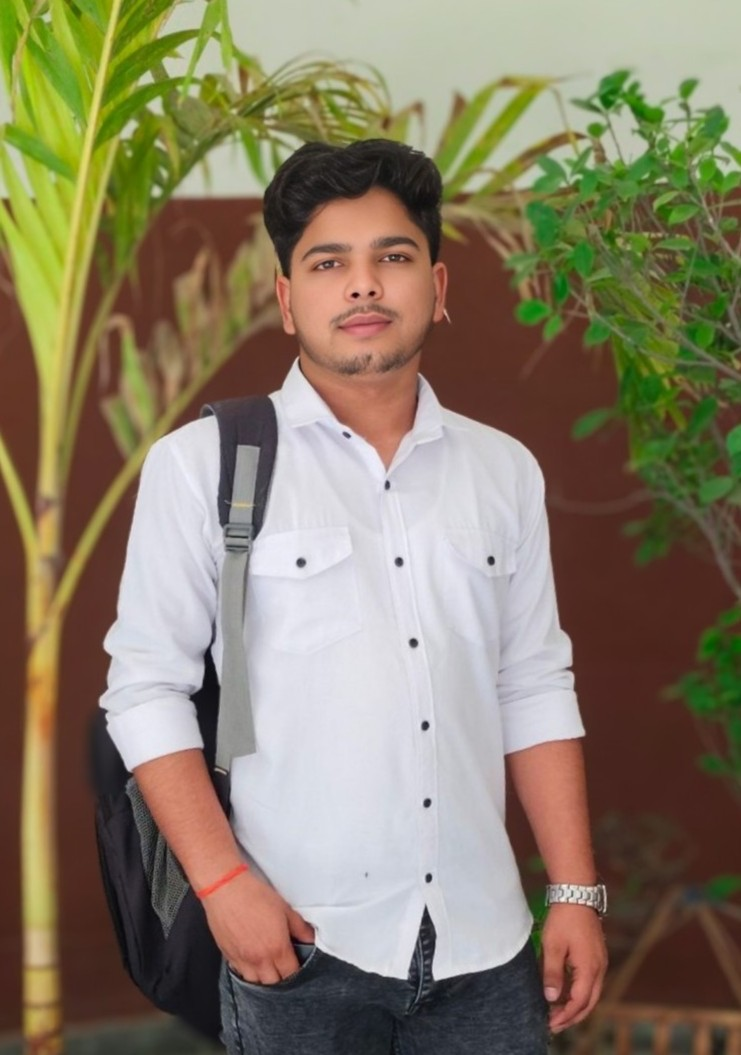
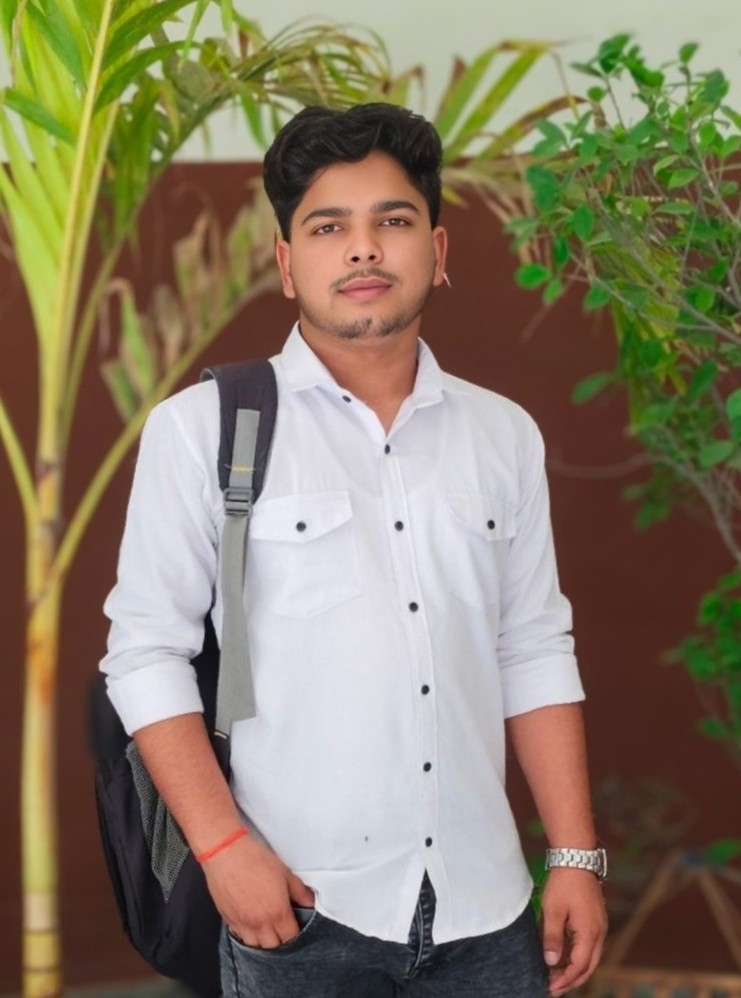
update

diff --git a/CSS/pages.css b/CSS/pages.css
@@ -118,9 +118,9 @@
 
 .about-photo {
     width: 400px;
-    height: auto;
+    height: 550px;
     display: block;
-    margin-left: 90px;
+    margin-left: 100px;
     border-radius: 30px;
     box-shadow: 0 4px 15px rgba(34, 197, 94, 0.4);
     transition: all 0.4s ease-in-out;
@@ -136,7 +136,7 @@
     flex: 0.7;
     background: var(--secondary-color);
     border-radius: 30px;
-    margin-right: 60px;
+    margin-right: 100px;
     padding: 20px;
     height: 550px;
     font-family:'Lucida Sans', 'Lucida Sans Regular', 'Lucida Grande', 'Lucida Sans Unicode', Geneva, Verdana, sans-serif;
@@ -263,7 +263,7 @@
 
 .credentials-grid {
     display: grid;
-    grid-template-columns: repeat(auto-fit, minmax(200px, 1fr));
+    grid-template-columns: repeat(auto-fit, minmax(300px, 1fr));
     gap: 2rem;
     margin: 3rem auto 8rem auto;
 }
@@ -286,7 +286,7 @@
 
 .credential-card img {
     width: 100%;
-    height: 180px;
+    height: 240px;
     object-fit: cover;
     opacity: 0.9;
     transition: opacity 0.3s;
@@ -484,6 +484,7 @@
     .about-text {
         flex-basis: auto;
         width: 100%;
+        height: auto;
         margin: 0;
         font-size: 15px;
     }
